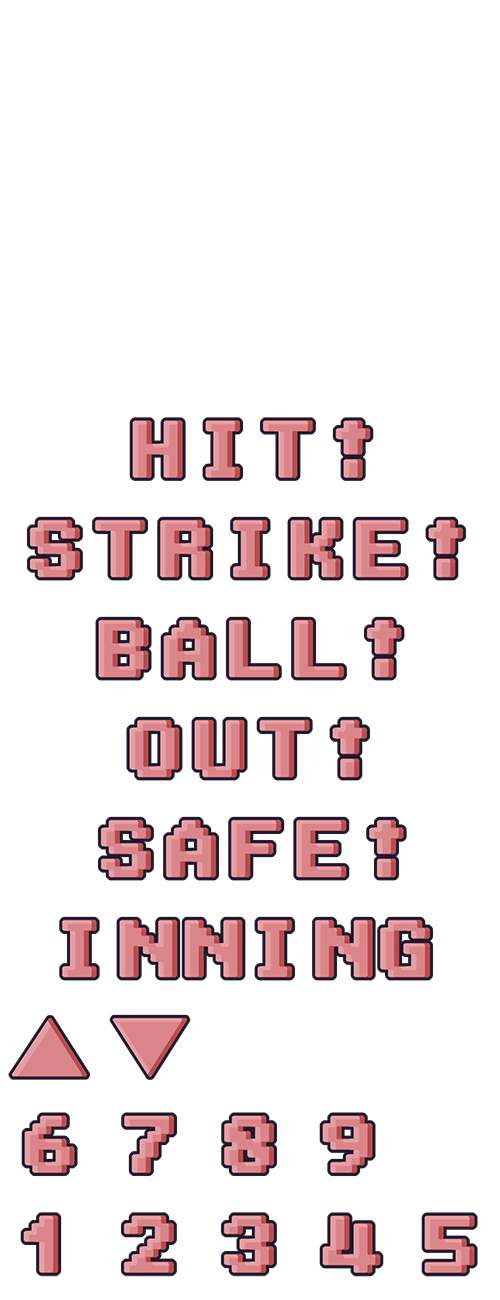
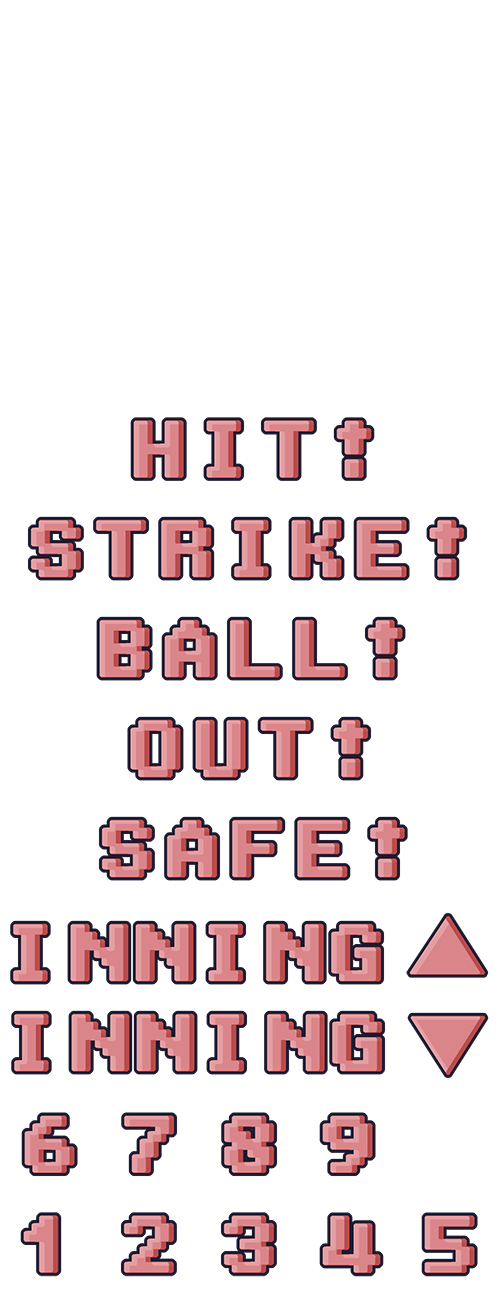
inning ui, hit/strike/ball 판정 ui 생성

diff --git a/source/ui/game_ment_ui.py b/source/ui/game_ment_ui.py
@@ -1,0 +1,43 @@
+from pico2d import load_image
+
+import server
+
+
+class MentUI:
+    ment_image = None
+    number_image = None
+
+    def __init__(self):
+        self.frame = 0      # 1 ~ 5
+
+        self.ment = 6       # 6: ball, 7: strike, 8: hit
+
+        self.x, self.y = 800, 200
+
+        self.is_draw_number = False
+        self.is_draw = False
+        if MentUI.ment_image is None:
+            MentUI.ment_image = load_image('resource/image/UI.png')
+            MentUI.number_image = load_image('resource/image/UI.png')
+
+    def update(self):
+        pass
+
+    def draw(self):
+        if self.is_draw:
+            self.ment_image.clip_draw(0, self.ment * 100, 500, 100, self.x, self.y)
+            if self.is_draw_number:
+                self.number_image.clip_draw(self.frame * 100, 0, 100, 100, self.x - 200, self.y - 5)
+
+    def draw_ment_ui(self, status, number=0):
+        if status == 'strike':
+            self.is_draw, self.is_draw_number = True, True
+            self.frame = number
+            self.ment = 7
+        elif status == 'ball':
+            self.is_draw, self.is_draw_number = True, True
+            self.frame = number
+            self.ment = 6
+        elif status == 'hit':
+            self.is_draw, self.is_draw_number = True, False
+            self.ment = 8

diff --git a/source/ui/inning_ui.py b/source/ui/inning_ui.py
@@ -1,0 +1,32 @@
+from pico2d import load_image
+
+import server
+
+
+class INNINGUI:
+    inning_image = None
+    number_image = None
+
+    def __init__(self):
+        self.frame = 0      # 1 ~ 5
+        self.action = 0     # 6 ~ 9
+        self.turn = 3  # 3이면 초, 2면 말
+        self.goal_x, goal_y = 600, 500
+        self.x, self.y = 1300, 500
+        self.size = 1
+        if INNINGUI.inning_image is None:
+            INNINGUI.inning_image = load_image('resource/image/UI.png')
+            INNINGUI.number_image = load_image('resource/image/UI.png')
+
+    def update(self):
+        if self.x > self.goal_x:
+            self.x -= 50
+        else:
+            self.size = 0.5
+            self.x, self.y = 200, 900
+
+    def draw(self):
+        self.inning_image.clip_draw(0, self.turn * 100, 500, 100, self.x, self.y, 500 * self.size,
+                                    100 * self.size)
+        self.number_image.clip_draw(self.frame * 100, self.action * 100, 100, 100,
+                                    self.x - (300 * self.size), self.y - (10 * self.size), 100 * self.size, 100 * self.size)

diff --git a/source/object/hitter.py b/source/object/hitter.py
@@ -129,6 +129,7 @@ class Hit:
                 hitter.strike, hitter.ball = 0, 0
                 hitter.base = number_to_bases[attack_zone]
                 game_world.update_handle_event(('HIT_SUCCESS', 0))
+                server.ui_ment.draw_ment_ui('hit')
         if hitter.frame == hitter.frame_number:
             if hitter.hit > 1:
                 # 원래 여기에 있는 게 맞긴 함
@@ -138,8 +139,10 @@ class Hit:
             else:
                 if hitter.hit < 0.4:
                     hitter.strike += 1
+                    server.ui_ment.draw_ment_ui('strike', hitter.strike)
                 else:
                     hitter.ball += 1
+                    server.ui_ment.draw_ment_ui('ball', hitter.ball)
                 if hitter.strike == 3:
                     print('STRIKE_3')
                     set_next_hitter(hitter)

diff --git a/source/mode/attack_mode.py b/source/mode/attack_mode.py
@@ -9,6 +9,8 @@ import object.background as background
 import ui.progress_bar as progress_bar
 import object.ball as ball
 import object.base as base
+import ui.inning_ui as inning_ui
+import ui.game_ment_ui as game_ment_ui
 
 
 def handle_events():
@@ -47,6 +49,12 @@ def init():
     # ui 생성
     server.progress_bar = progress_bar.ProgressBar()
     game_world.add_object(server.progress_bar, 3)
+
+    server.ui_ment = game_ment_ui.MentUI()
+    game_world.add_object(server.ui_ment, 3)
+
+    server.ui_inning = inning_ui.INNINGUI()
+    game_world.add_object(server.ui_inning, 3)
 
     # 수비수와 공의 충돌 설정
     # 수비수와 base 충돌 설정

diff --git a/source/object/ball.py b/source/object/ball.py
@@ -93,6 +93,8 @@ class Throw:
                         o.state_machine.handle_event(('BACK_TO_DEFENCE', 0))
                 number_to_bases[ball.goal_position].collisionObj = None
                 number_to_bases[ball.goal_position].check_collision = False
+            server.ui_ment.is_draw = False
+            server.ui_ment.is_draw_number = False
             server.progress_bar.frame = 0
             server.progress_bar.action = 0
             server.progress_bar.is_hit = False

diff --git a/source/server.py b/source/server.py
@@ -4,7 +4,10 @@ defence_team = []
 
 ball = None
 background = None
+
 progress_bar = None
+ui_inning = None
+ui_ment = None
 
 out_count = 0
 cur_inning = 1
